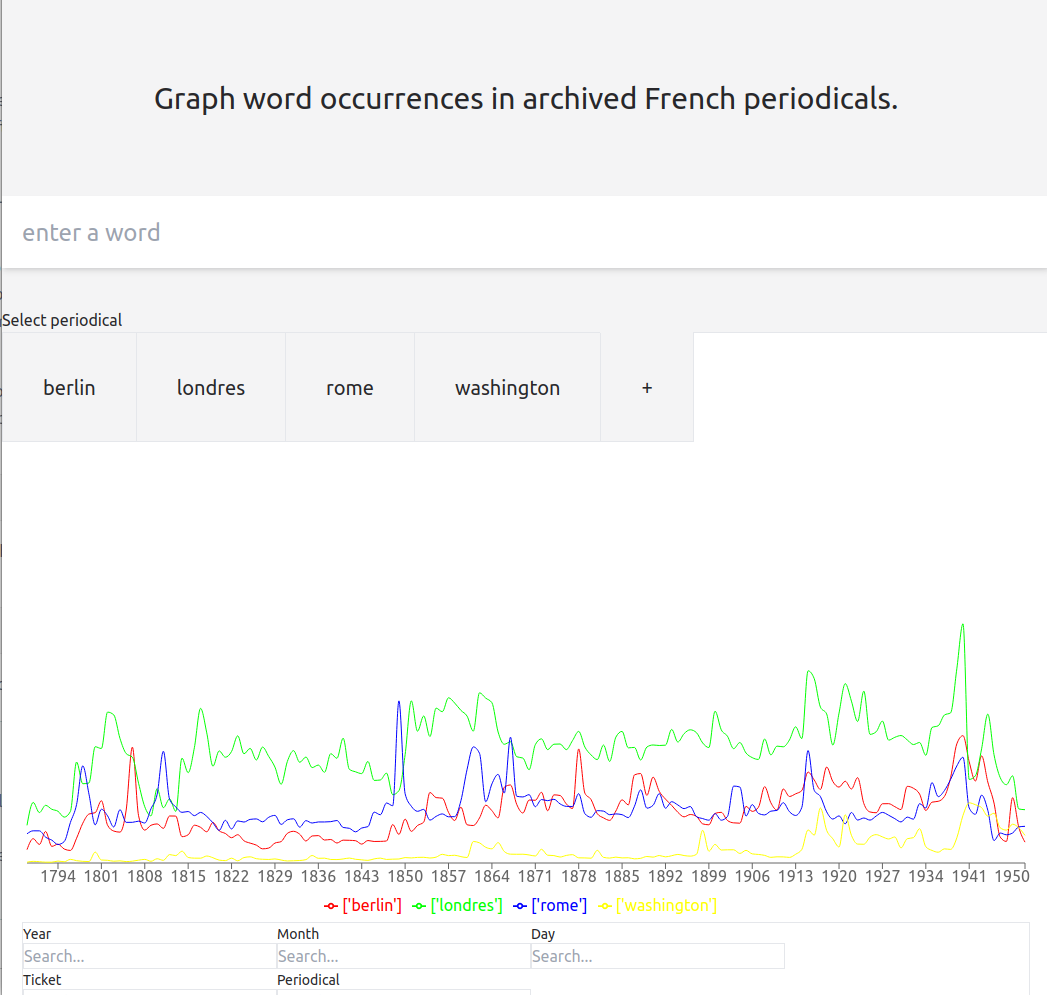
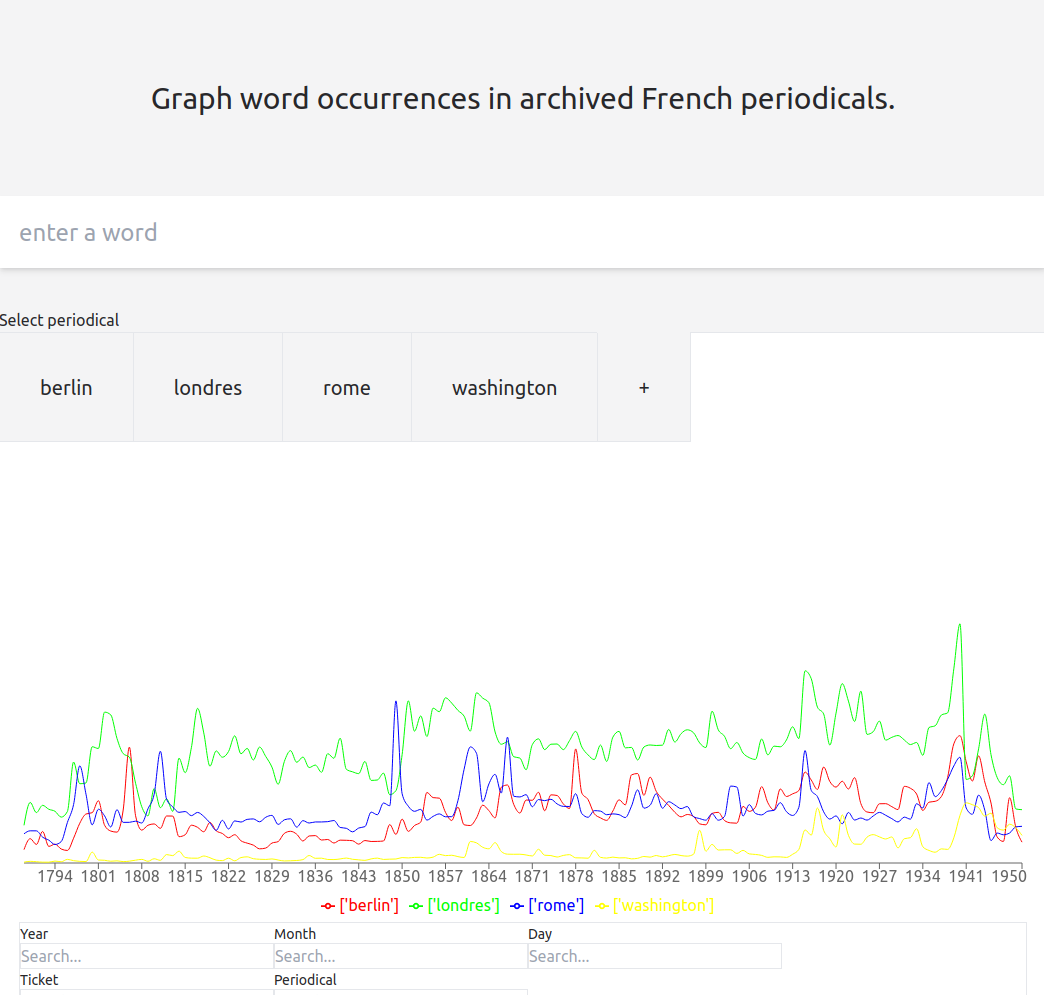
post-5

diff --git a/src/pages/posts/engineering/post-5.md b/src/pages/posts/engineering/post-5.md
@@ -3,6 +3,18 @@ layout: ../../../layouts/MarkdownPostLayout.astro
 title: UI Prototype, Better Abstractions, NeoVim
 pubDate: 1/14/23
 image:
-    url: /graphing_excalidraw.png
+    url: /ui_prototype.png
     alt: A mock up of the new UI
 ---
+
+
+The creature walks! I have finished hooking up my tRPC routes, refactoring my old Python code, and implementing a rough UI. The process has been smooth. Type safety on the Python side has been wonderful to work with -- kudos to Pydantic and the FastAPI team. It is all very exciting. The new Gallica Grapher should allow more spontaneity when graphing -- no need to begin a new search from the top, just enter a term and add it to the graph. Wonderful! There are many bugs left to work out, of course. The UI is not very pleasant to behold. But the technical foundation is now far more solid with Typescript on the front end, and it should be much easier to add new features. 
+
+I owe my rapid progress to effective abstractions, namely, React Query and Recharts, a React charting library. I spent a half-day attempting to make a beautiful chart with straight d3 in my React code. It was a tiresome experience. State was hard to synchronize between React and d3, in part, I suspect, because both manipulate the DOM. After a few hours of struggling, I realized I had wandered too far from the well-traveled road of React devs who want to chart data. Very few React devs, I suspect, write a custom d3 solution for a simple chart. After some Google searching, I discovered Recharts, a beautiful component-based abstraction on top of d3. Creating a multi-series chart is as simple as mapping the series into Line components inside a LineChart. Music to my React-pilled ears. I then found visx, an Airbnb visualization library also built on top of d3. But, seeing how Recharts is working, I will stick with that. 
+
+React-Query made fetching a batch of tickets straightforward, and handles caching for me. Setting up a polling query for progress was equally straightforward. I have been following the creator's advice of not storing any fetched data in state. It is a near-magical solution, at times. Deleting a ticket seamlessly deletes a series from the graph. The wonders of a UI framework. I know many people critique React for its performance, but my oh my, I will always love React for first empowering me to create web applications. 
+
+Finally, I have been spending a lot of time on dev Twitch and dev Twitter. The NeoVim community is loud and exciting, and I decided to give it a try. I recently switched to Linux, PopOS distro, on my laptop, and set up NeoVim. I have enjoyed working with it so far. I use Vim motions in Pycharm and VS Code, but am no expert at Vim script and customization. We will see if Neovim, and the Lua customization it provides, will enhance the experience. At the very least, it is a lovely, passionate community. And community makes many things worth it!
+
+That is all for this week. Next week will be heavy on UI improvements. I would also like to configure my Next server-side rendering set up. I plan to have an initial example chart show on the home page, and that data can be cached server-side. I think getStaticProps will do the trick. Eventually, I would like to migrate the Python backend of the Gallica Grapher to Go. Partly because I think Go is better for network-heavy apps. Partly because I want to become more familiar with it. Partly because it will help me get a job. Three noble reasons to switch to Go! 
+
